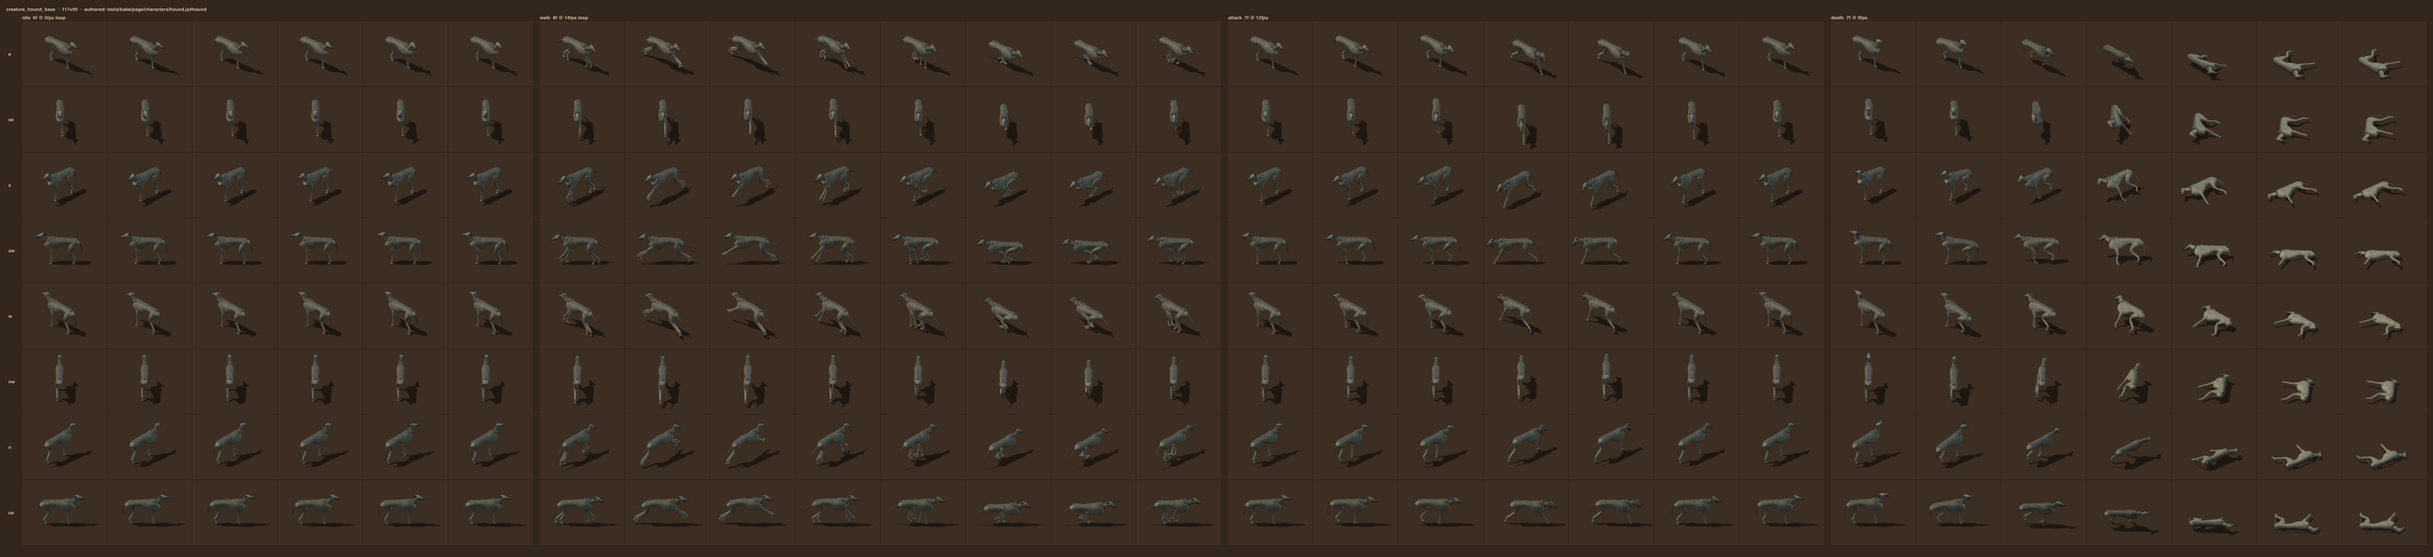
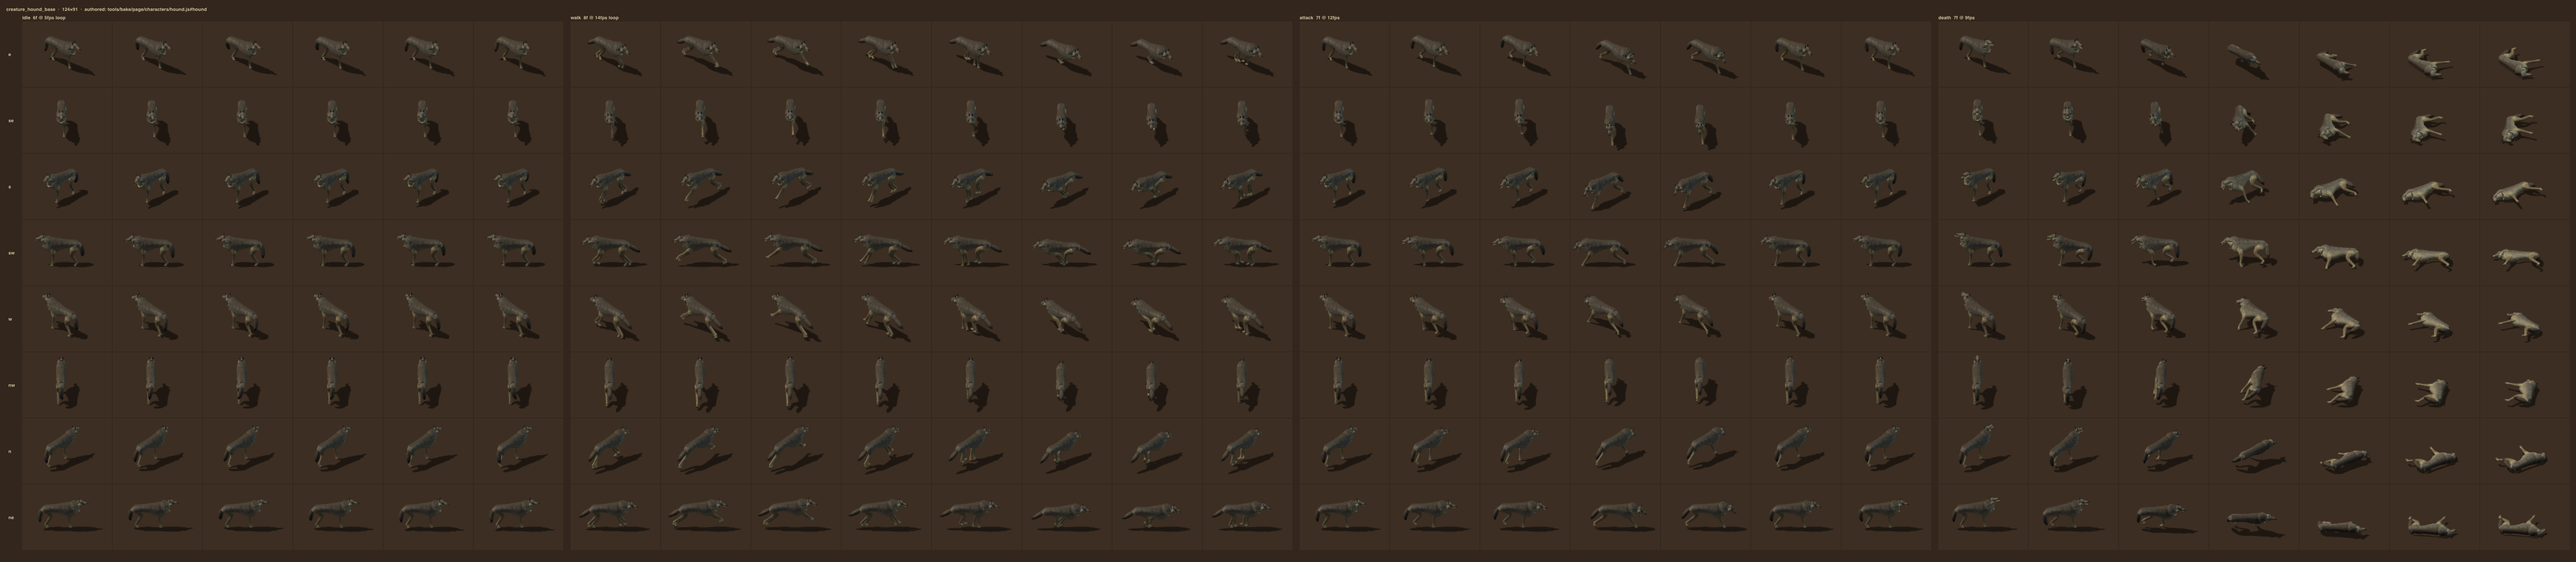
fix(game-client): code-review round 1 for the wolf: the hound and roundel contact sheets show the wolf, the shag's seam folds its parity as its hash, the breeches line said true (I-X2CMM-30)

diff --git a/game-client/tools/bake/page/characters/hound.js b/game-client/tools/bake/page/characters/hound.js
@@ -154,7 +154,9 @@ function shag({ segs, rings, seed, amount }) {
   return (t, a) => {
     const j = Math.round((((a % (2 * Math.PI)) + 2 * Math.PI) % (2 * Math.PI)) / ((2 * Math.PI) / segs));
     const i = Math.round(t * (rings - 1));
-    const tuft = (j + i) % 2 === 0 ? hash2(j % segs, i, seed) : 0.15 * hash2(j % segs, i, seed + 1);
+    // the seam column folds to the first, for the parity as for the hash, so the seam never tears
+    const jj = j % segs;
+    const tuft = (jj + i) % 2 === 0 ? hash2(jj, i, seed) : 0.15 * hash2(jj, i, seed + 1);
     return 1 + amount(t, a) * tuft;
   };
 }
@@ -345,7 +347,7 @@ function hindleg(rig, s, sx, F) {
     segs,
     steps,
     uv: 5,
-    // the breeches: the fur on the back of the thigh stands out in tufts, short below the stifle
+    // the breeches: the fur round the thigh stands out in tufts, short below the stifle
     shape: shag({ segs, rings: (cps.length - 1) * steps + 1, seed: 261 + (sx > 0 ? 0 : 7), amount: (t) => 0.14 * smoothstep(0.05, 0.15, t) * (1 - smoothstep(0.2, 0.4, t)) }),
   });
   shadeBy(mesh, rig.H, legShade);

diff --git a/game-client/src/render/creatures/hounds.ts b/game-client/src/render/creatures/hounds.ts
@@ -1,7 +1,8 @@
 /**
  * The archer's hound on the canvas (FS-X2CMM §I R47; Call the Wolf, R28; a wolf to the player, §Change: The
- * archer's wolf W1): every `hound` entry of the run's book effects (`book_effects`, §F R34), drawn for every viewer from its baked sheet (`creature_hound_base`,
- * built in code at `tools/bake/page/characters/hound.js`, ADR-0021) at its state position, facing the way it
+ * archer's wolf W1): every `hound` entry of the run's book effects (`book_effects`, §F R34), drawn for every
+ * viewer from its baked sheet (`creature_hound_base`, built in code at `tools/bake/page/characters/hound.js`,
+ * ADR-0021) at its state position, facing the way it
  * moves, playing the clip its `action` names. It carries a small health bar over its head and a faint
  * verdigris ring on the floor under it, and never a monster's nameplate: it is the archer's, not the Spire's.
  * While its `bay` shows (§J R49) it bays: a ripple of rings on the floor at the point it bays toward

diff --git a/game-server/game-service/internal/systems/hound_spared_test.go b/game-server/game-service/internal/systems/hound_spared_test.go
@@ -236,6 +236,7 @@ func TestWolf_SparedByEveryDelverSideSource(t *testing.T) {
 					wolf, witness := source.run(w)
 
 					hp := healthT(t, wolf)
+					// and no stun (W5): applyHit stuns only a monster, so a spared wolf is never stunned
 					assert.Equal(t, hp.MaxHealth, hp.CurrentHealth, "the wolf keeps its health")
 					assert.Positive(t, hp.MaxHealth)
 					assert.Less(t, health(witness), healthT(t, witness).MaxHealth, "the source landed on its witness")
